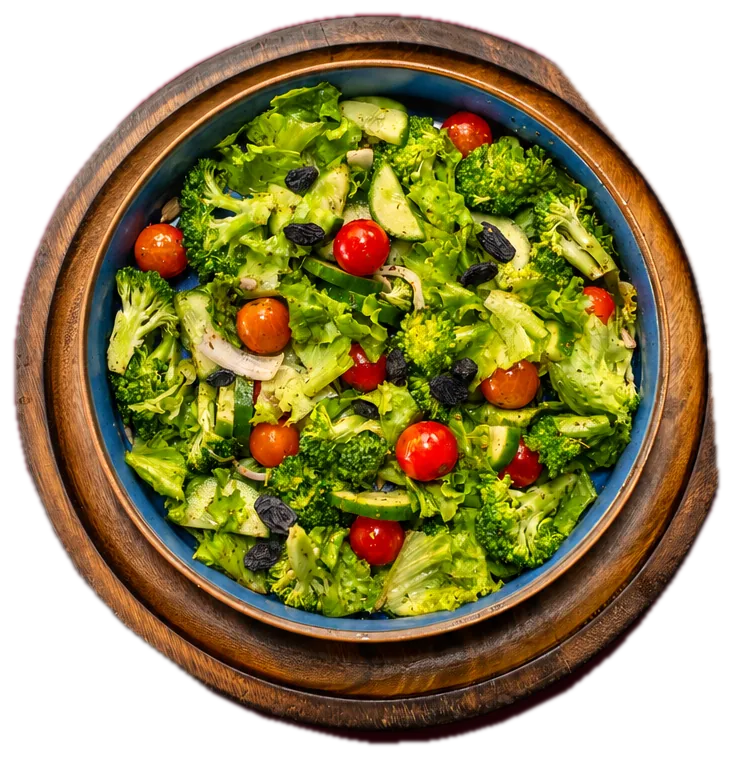
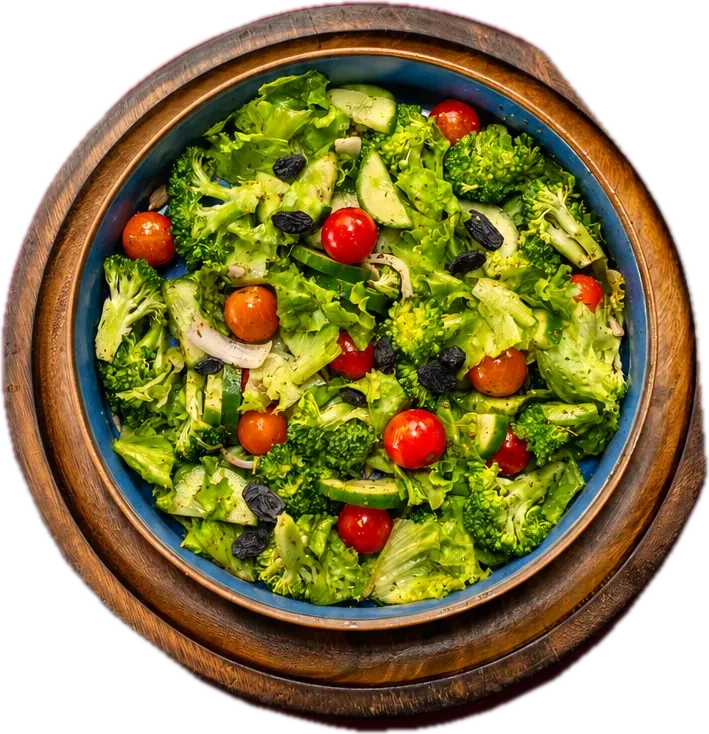
How we make it: every step uses the same two boxes (large dish at the right edge, smaller one below); cut-outs trimmed to the dish so sizes read evenly on desktop and phone

diff --git a/apps/web/src/components/site/home/how.tsx b/apps/web/src/components/site/home/how.tsx
@@ -3,60 +3,51 @@
 import Image from "next/image";
 import { useMotionOk, useScene } from "./scroll";
 
-/** One element of a scene: a cut-out of one of our dishes, where it rests, and the edge it slides in from. */
-type Piece = { src: string; w: number; h: number; at: string; from: string; turn: number };
+/** A cut-out of one of our dishes and the angle it rests at. Files are trimmed to the dish, so equal boxes look equal. */
+type Dish = { src: string; turn: number };
 
-const STEPS: { n: string; title: string; body: string; pieces: Piece[]; phone: Piece }[] = [
+const STEPS: { n: string; title: string; body: string; main: Dish; side: Dish }[] = [
   {
     n: "01",
     title: "Thoughtful Sourcing",
     body: "We focus on selecting quality ingredients that form the foundation of good food.",
-    pieces: [
-      { src: "/cut/broccoli-corn-salad-bowl.webp", w: 732, h: 757, at: "-right-[6%] top-[20%] w-[min(34vw,460px)]", from: "translate(45vw, 0)", turn: 8 },
-      { src: "/cut/cucumber-and-avocado-salad-bowl.webp", w: 831, h: 813, at: "right-[24%] -top-[10%] w-[min(20vw,270px)]", from: "translate(10vw, -50vh)", turn: -12 },
-    ],
-    phone: { src: "/cut/broccoli-corn-salad-bowl.webp", w: 732, h: 757, at: "", from: "", turn: 8 },
+    main: { src: "/cut/broccoli-corn-salad-bowl.webp", turn: 8 },
+    side: { src: "/cut/cucumber-and-avocado-salad-bowl.webp", turn: -10 },
   },
   {
     n: "02",
     title: "Fresh Preparation",
     body: "Our meals are prepared with attention to freshness, quality and consistency.",
-    pieces: [
-      { src: "/art/green_topped_toast.webp", w: 2000, h: 1091, at: "-right-[8%] top-[22%] w-[min(44vw,600px)]", from: "translate(50vw, 0)", turn: -6 },
-      { src: "/art/fruit_bowl.webp", w: 2000, h: 1116, at: "right-[28%] bottom-[3%] w-[min(20vw,270px)]", from: "translate(0, 60vh)", turn: 10 },
-    ],
-    phone: { src: "/art/green_topped_toast.webp", w: 2000, h: 1091, at: "", from: "", turn: -6 },
+    main: { src: "/cut/avocado-toast.webp", turn: -6 },
+    side: { src: "/cut/fruit-bowl.webp", turn: 10 },
   },
   {
     n: "03",
     title: "Balanced Combinations",
     body: "We bring ingredients together to create meals that balance flavour, variety and nutrition.",
-    pieces: [
-      { src: "/landing/salad-bowl-cut.webp", w: 609, h: 619, at: "-right-[4%] top-[24%] w-[min(32vw,440px)]", from: "translate(45vw, 10vh)", turn: 8 },
-      { src: "/cut/italian-pesto-pasta-bowl.webp", w: 769, h: 833, at: "right-[18%] -top-[9%] w-[min(19vw,260px)]", from: "translate(10vw, -50vh)", turn: -10 },
-      { src: "/cut/mediterranean-salad-bowl.webp", w: 797, h: 811, at: "right-[30%] bottom-[2%] w-[min(17vw,230px)]", from: "translate(0, 55vh)", turn: 14 },
-    ],
-    phone: { src: "/landing/salad-bowl-cut.webp", w: 609, h: 619, at: "", from: "", turn: 8 },
+    main: { src: "/cut/salad-bowl.webp", turn: 6 },
+    side: { src: "/cut/italian-pesto-pasta-bowl.webp", turn: -10 },
   },
   {
     n: "04",
     title: "Made for You",
     body: "Freshly prepared for you according to your needs and ready to fit into your day, wherever you are.",
-    pieces: [
-      { src: "/cut/tandoori-grill.webp", w: 1000, h: 691, at: "-right-[9%] top-[22%] w-[min(44vw,600px)]", from: "translate(50vw, 0)", turn: -6 },
-      { src: "/art/green_pasta_bowl.webp", w: 2000, h: 1091, at: "right-[28%] bottom-[3%] w-[min(20vw,270px)]", from: "translate(0, 60vh)", turn: -12 },
-    ],
-    phone: { src: "/cut/tandoori-grill.webp", w: 1000, h: 691, at: "", from: "", turn: -6 },
+    main: { src: "/cut/tandoori-grill.webp", turn: -6 },
+    side: { src: "/cut/green-pasta-bowl.webp", turn: 12 },
   },
 ];
 
-function Art({ piece, sizes }: { piece: Piece; sizes: string }) {
-  return <Image src={piece.src} alt="" width={piece.w} height={piece.h} sizes={sizes} className="h-auto w-full drop-shadow-2xl" />;
+/** The same two boxes for every step: a large dish at the right edge and a smaller one below it. */
+const MAIN_BOX = "-right-[4%] top-[18%] size-[min(38vw,62svh,500px)] max-md:-right-[12%] max-md:top-[29%] max-md:size-[64vw]";
+const SIDE_BOX = "right-[30%] bottom-[4%] size-[min(17vw,28svh,230px)] max-md:hidden";
+
+function Art({ dish, sizes }: { dish: Dish; sizes: string }) {
+  return <Image src={dish.src} alt="" fill sizes={sizes} className="object-contain drop-shadow-2xl" />;
 }
 
 /**
- * "How we make it better" as a scroll-told story. On wide screens the scene pins; each step's words take the
- * stage while its ingredients drift in from the edges and leave as the next step arrives.
+ * "How we make it better" as a scroll-told story. The scene pins; each step's words take the stage while its
+ * dishes drift in from the edges and leave as the next step arrives.
  */
 export function HowWeMakeIt() {
   const story = useMotionOk();
@@ -79,9 +70,9 @@ export function HowWeMakeIt() {
           {intro}
           <ol className="mt-12 space-y-14">
             {STEPS.map((s) => (
-              <li key={s.n} className="relative min-h-40">
-                <div aria-hidden className={`pointer-events-none absolute top-1/2 ${s.phone.w > s.phone.h * 1.3 ? "-right-24 w-64 sm:-right-10 sm:w-80" : "-right-14 w-44 sm:-right-6 sm:w-60"}`} style={{ transform: `translateY(-50%) rotate(${s.phone.turn}deg)` }}>
-                  <Art piece={s.phone} sizes="240px" />
+              <li key={s.n} className="relative min-h-44">
+                <div aria-hidden className="pointer-events-none absolute -right-12 top-1/2 size-44 -translate-y-1/2 sm:-right-4 sm:size-60" style={{ rotate: `${s.main.turn}deg` }}>
+                  <Art dish={s.main} sizes="240px" />
                 </div>
                 <div className="relative max-w-[62%] sm:max-w-md">
                   <p aria-hidden className="font-display text-6xl leading-none text-cream/20">{s.n}</p>
@@ -99,23 +90,26 @@ export function HowWeMakeIt() {
   return (
     <section ref={ref} id="how" className="relative scroll-mt-20 bg-olive-ink text-cream" style={{ height: `${STEPS.length * 85 + 40}svh` }} aria-labelledby="how-h">
       <div className="sticky top-16 h-[calc(100svh-4rem)] overflow-hidden">
-        {/* The ingredients: no frames; they come in from the edges and rest half off the screen. */}
+        {/* The dishes: no frames; they come in from the edges and rest half off the screen. */}
         <div aria-hidden className="pointer-events-none absolute inset-0">
           {STEPS.map((s, i) =>
-            s.pieces.map((piece, j) => {
+            ([
+              [s.main, MAIN_BOX, "translate(50vw, 0)", "(min-width: 768px) 500px, 68vw"],
+              [s.side, SIDE_BOX, "translate(0, 60vh)", "230px"],
+            ] as const).map(([dish, box, from, sizes], j) => {
               const on = i === step;
               const past = i < step;
               return (
                 <div
                   key={`${s.n}-${j}`}
-                  className={`absolute ${piece.at} ${j === 0 ? "max-md:-right-[16%]! max-md:top-[30%]! max-md:w-[64vw]!" : "max-md:hidden"} transition-[transform,opacity] duration-[900ms] ease-[cubic-bezier(0.2,0.8,0.2,1)]`}
+                  className={`absolute ${box} transition-[transform,opacity] duration-[900ms] ease-[cubic-bezier(0.2,0.8,0.2,1)]`}
                   style={{
-                    transform: on ? `translate(0, 0) rotate(${piece.turn}deg)` : past ? `translate(0, -40vh) rotate(${piece.turn - 20}deg)` : `${piece.from} rotate(${piece.turn + 25}deg)`,
+                    transform: on ? `translate(0, 0) rotate(${dish.turn}deg)` : past ? `translate(0, -40vh) rotate(${dish.turn - 20}deg)` : `${from} rotate(${dish.turn + 25}deg)`,
                     opacity: on ? 1 : 0,
                     transitionDelay: on ? `${j * 90}ms` : "0ms",
                   }}
                 >
-                  <Art piece={piece} sizes="(min-width: 1024px) 640px, 46vw" />
+                  <Art dish={dish} sizes={sizes} />
                 </div>
               );
             }),
